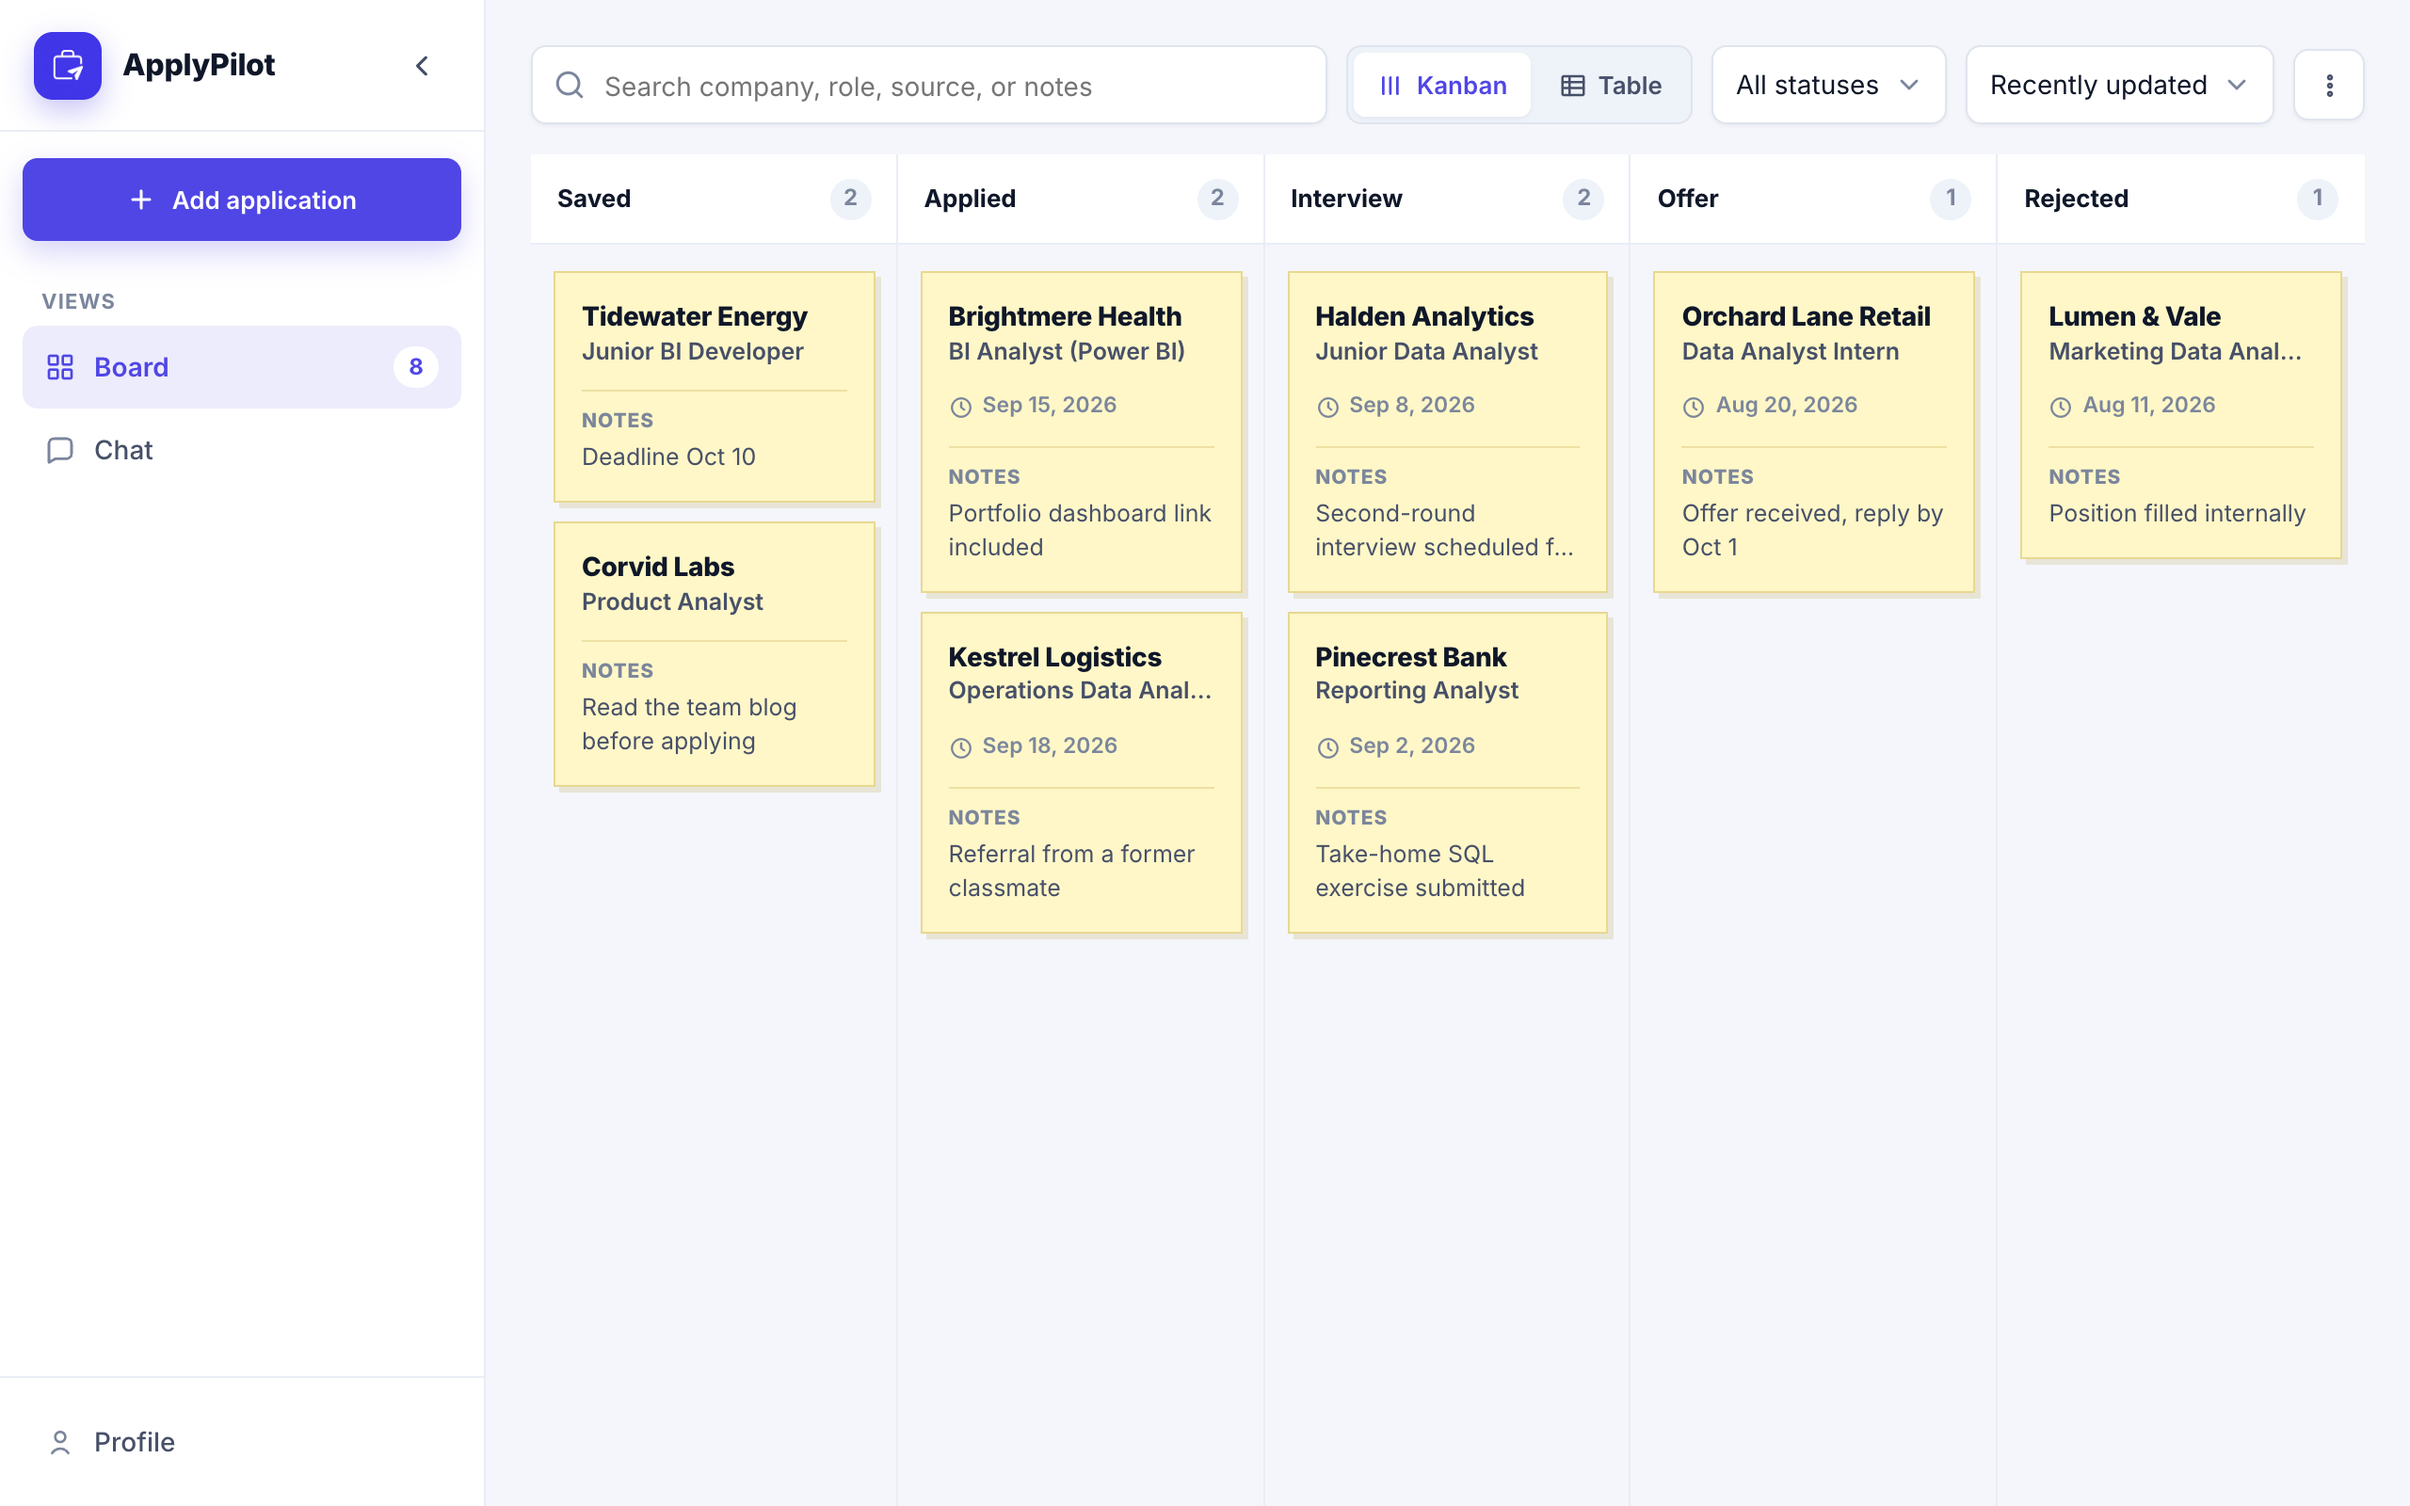
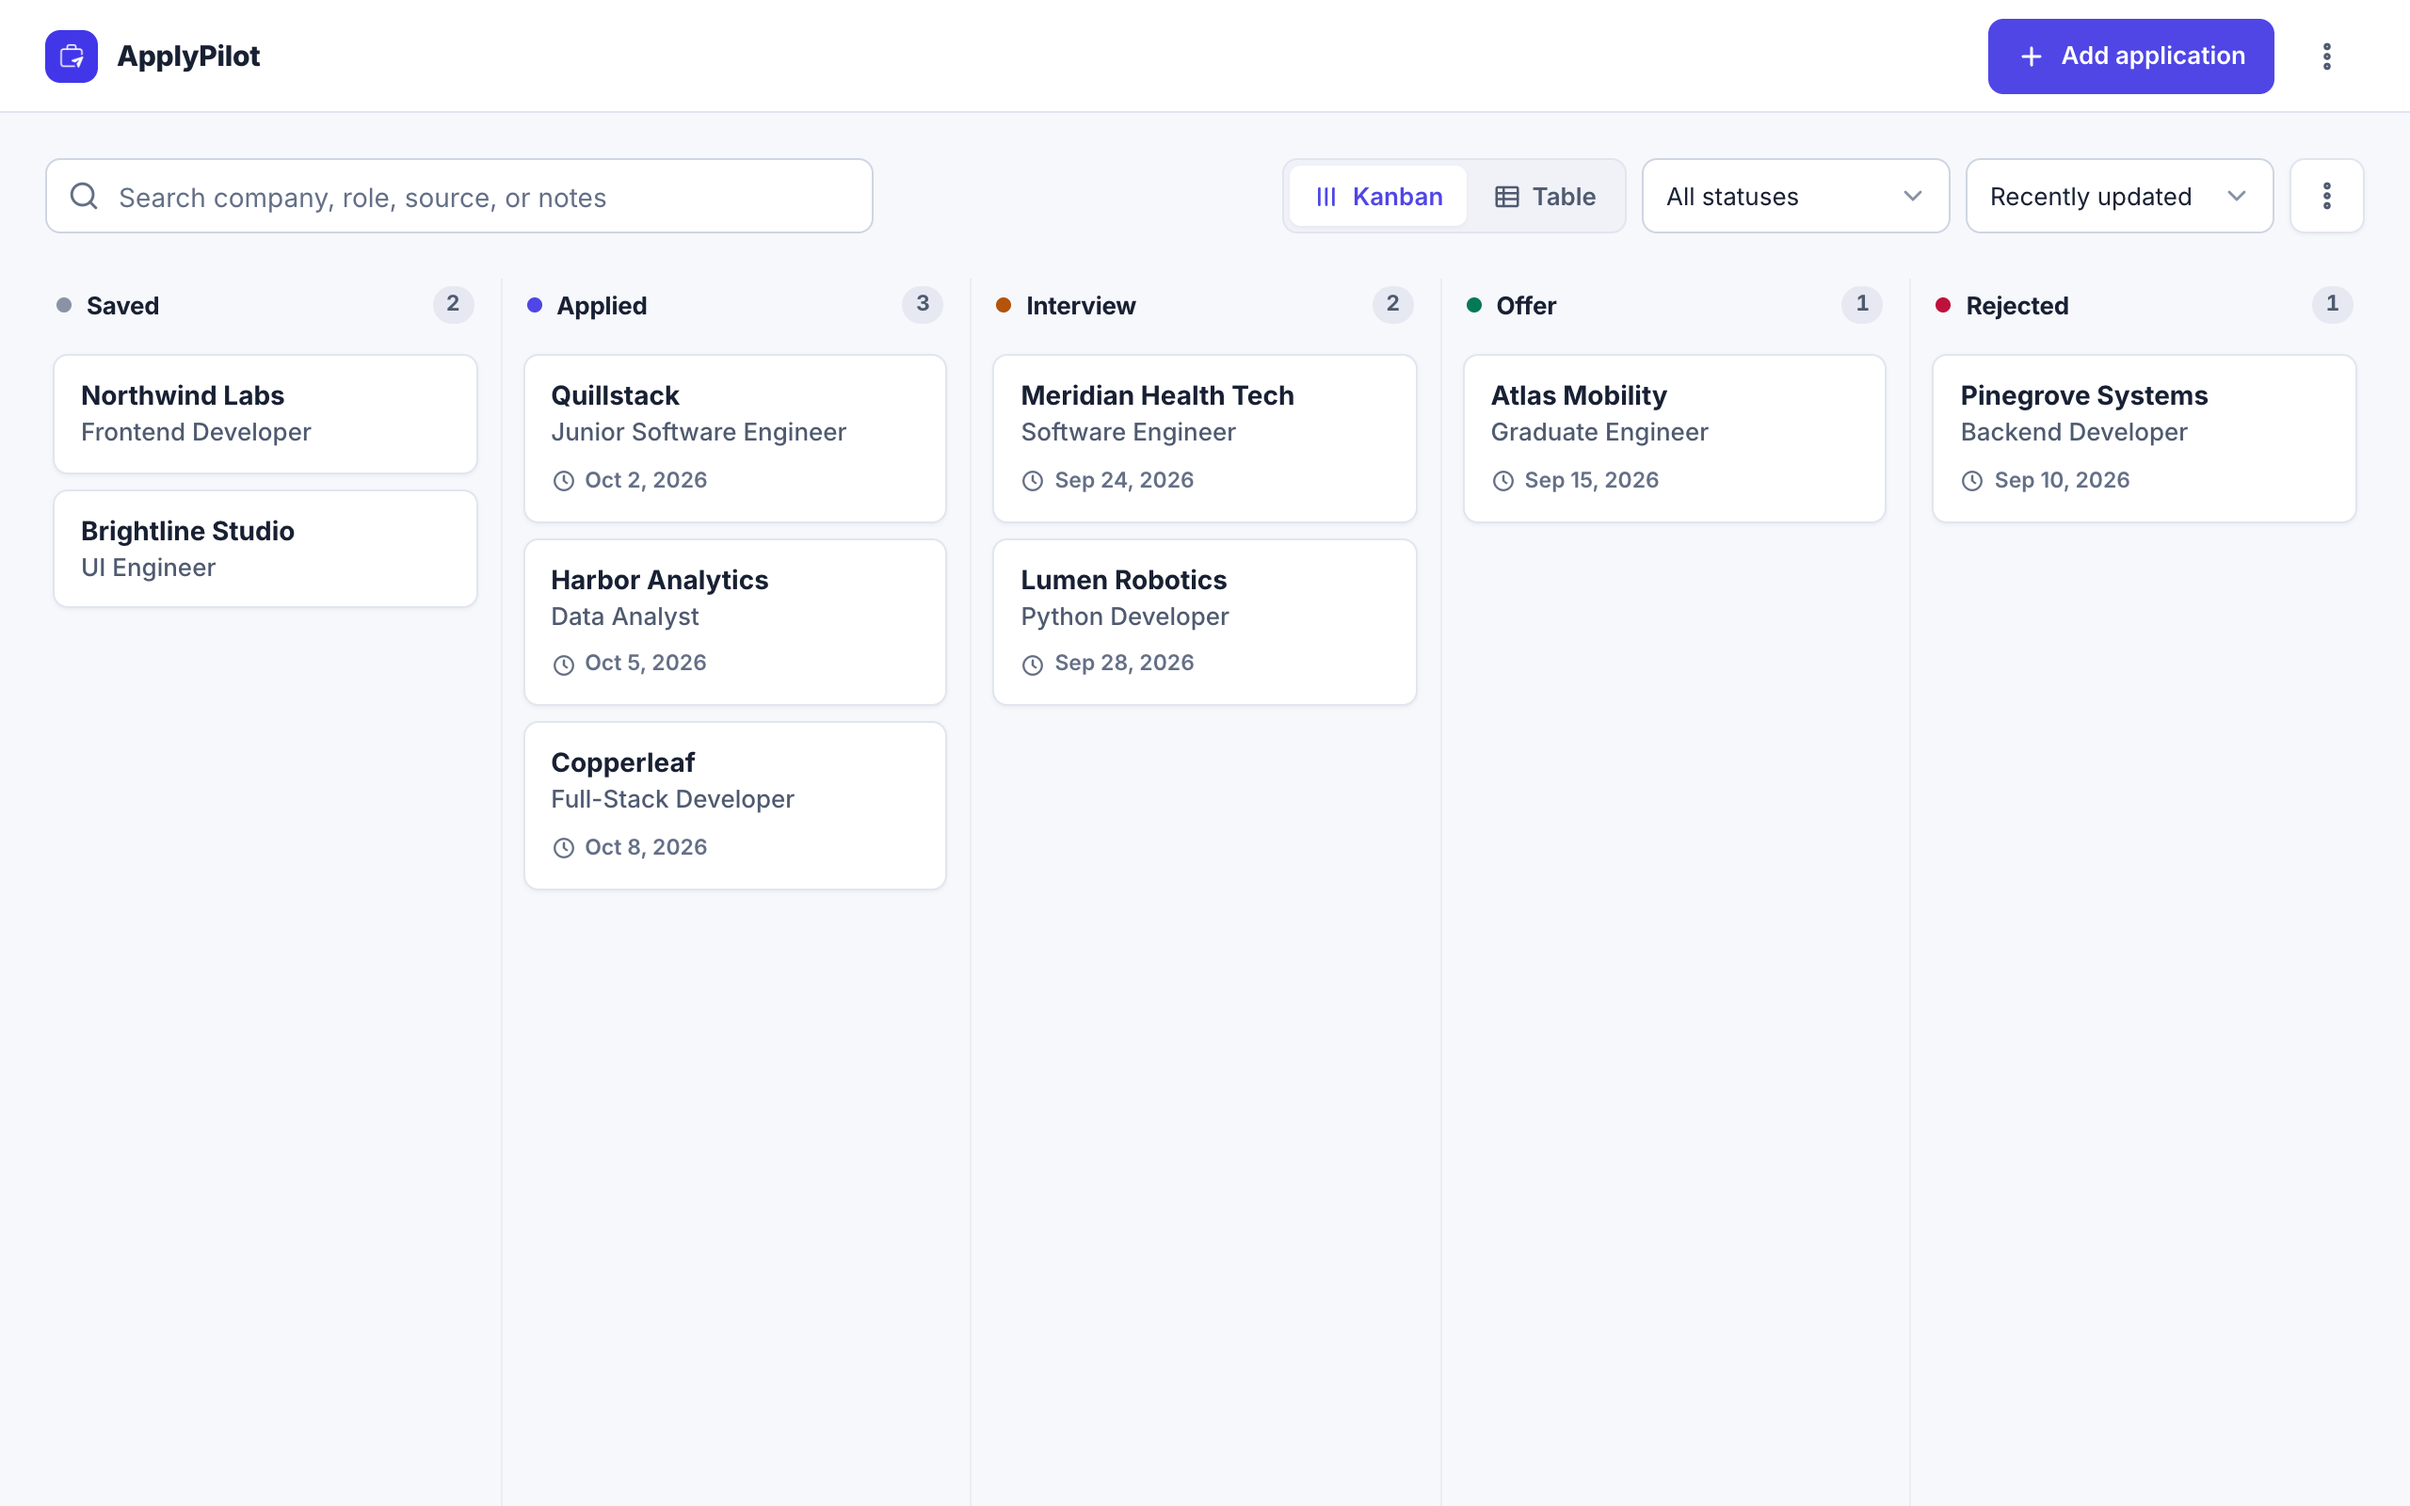
Refresh ApplyPilot and TarifeAI

diff --git a/src/data/projects.ts b/src/data/projects.ts
@@ -5,17 +5,17 @@ import applypilotScreenshot from '../assets/projects/applypilot-screenshot.png';
 
 // Content carried over unchanged from the legacy homepage (Featured Projects).
 // Screenshots are captured from the running apps: ApplyPilot with fictional
-// demo data, TarifeAI and Spectra in their initial state.
+// demo data, TarifeAI and Spectra in their initial state (refreshed 2026-10-16).
 export const featuredProjects: Project[] = [
   {
     name: 'TarifeAI',
-    tagline: 'Retrieval-augmented assistant',
+    tagline: 'Mobile plan comparison assistant',
     description:
       'A RAG assistant that compares Turkish mobile plans, grounding every answer in retrieved plan data with FastAPI, PostgreSQL + pgvector, and BGE-M3 embeddings.',
     media: {
       kind: 'screenshot',
       src: tarifeaiScreenshot,
-      alt: 'TarifeAI welcome screen with a how-it-works guide, sample questions about Turkish mobile plans, the question input and a sidebar for conversations.',
+      alt: 'TarifeAI start screen in Turkish with Turkcell, Vodafone and Türk Telekom chips, four suggested plan searches, the question input and a conversation sidebar.',
     },
     primaryLink: { label: 'GitHub', href: 'https://github.com/kaanddemir/tarife-ai-rag' },
   },
@@ -33,13 +33,13 @@ export const featuredProjects: Project[] = [
   },
   {
     name: 'ApplyPilot',
-    tagline: 'AI job application tracker',
+    tagline: 'Job tracking with AI fit analysis',
     description:
-      'A job application tracker with AI-assisted CV review, cover-letter drafting, and focused job-search chat.',
+      'A job application tracker that organizes your search on a Kanban board and compares your CV with each posting, backing every requirement with evidence.',
     media: {
       kind: 'screenshot',
       src: applypilotScreenshot,
-      alt: 'ApplyPilot Kanban board with eight job applications sorted into Saved, Applied, Interview, Offer and Rejected columns.',
+      alt: 'ApplyPilot Kanban board with nine fictional job applications sorted into Saved, Applied, Interview, Offer and Rejected columns.',
     },
     primaryLink: { label: 'GitHub', href: 'https://github.com/kaanddemir/applypilot' },
   },
